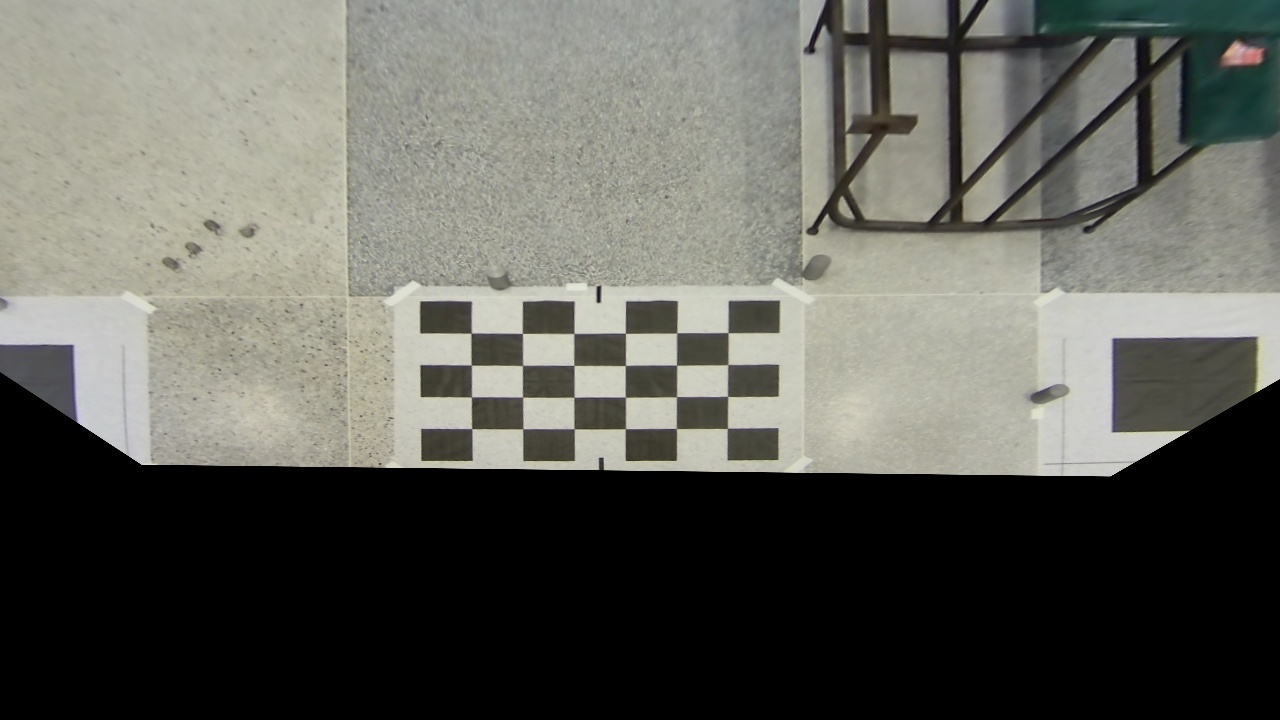
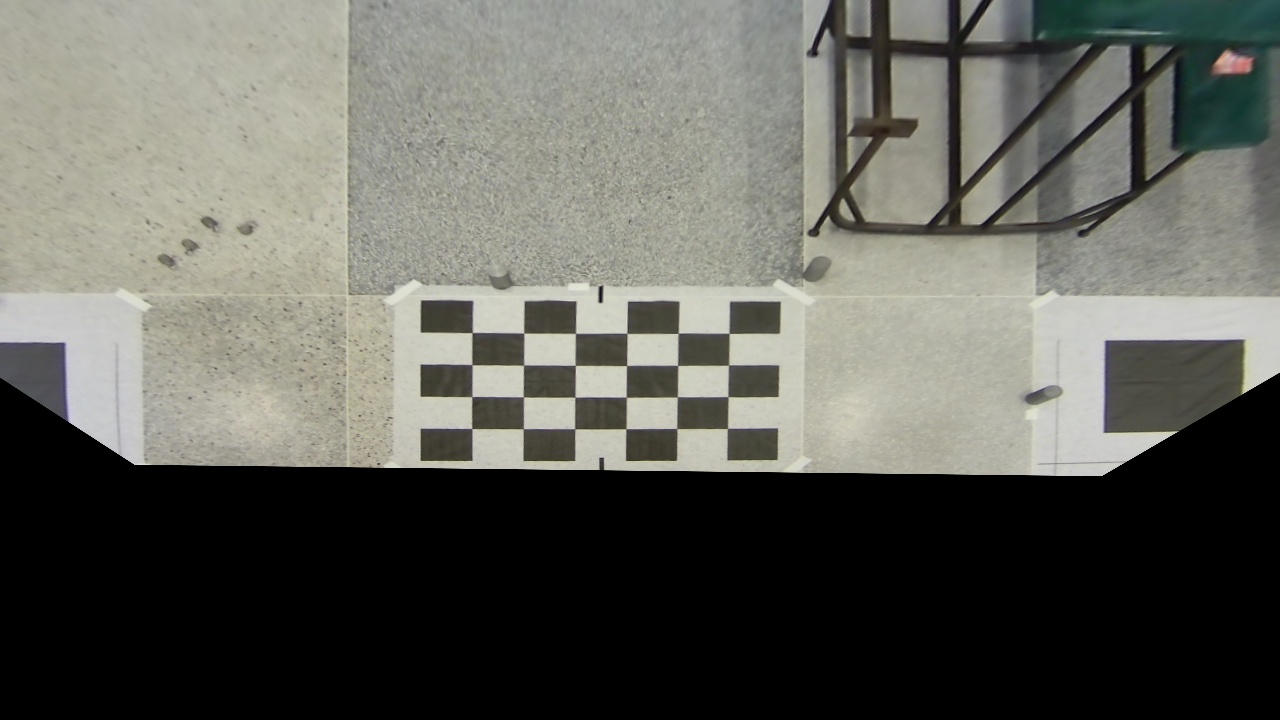
Surround-View-App Ver 0.6.0

diff --git a/Program/Step2b_Projective_Transformation.py b/Program/Step2b_Projective_Transformation.py
@@ -1,0 +1,115 @@
+import cv2
+import numpy as np
+
+Title = "Please select 4 points in the following order: Top-Left, Top-Right, Bottom-Left, Bottom-Right"  
+
+def click_event(event, x, y, flags, param):
+    global clicked_points, img_display
+    if event == cv2.EVENT_LBUTTONDOWN:
+        # บันทึกจุดที่คลิก
+        clicked_points.append((x, y))
+        # วาดวงกลมเพื่อแสดงตำแหน่งที่เลือก
+        cv2.circle(img_display, (x, y), 5, (0, 255, 0), -1)
+        cv2.imshow(Title, img_display)
+
+def load_calibration_parameters(yaml_filename):
+    fs = cv2.FileStorage(yaml_filename, cv2.FILE_STORAGE_READ)
+    camera_matrix = fs.getNode("camera_matrix").mat()
+    dist_coeffs = fs.getNode("dist_coeffs").mat()
+    resolution = fs.getNode("resolution").mat()
+    fs.release()
+    return camera_matrix, dist_coeffs, resolution
+
+def exCalib(img_src, img_dst):
+    # กำหนดขนาดของ chessboard (จำนวน inner corners)
+    # หมายเหตุ: หาก chessboard ของคุณมีจำนวนตารางต่างจากนี้ ให้ปรับ pattern_size ตาม
+    # (columns, rows) ของ inner corners
+    pattern_size = (6, 4)  # สำหรับ 7x5 ตาราง (inner corners 6x4)
+
+    # แปลงภาพเป็น grayscale
+    gray_src = cv2.cvtColor(img_src, cv2.COLOR_BGR2GRAY)
+    gray_dst = cv2.cvtColor(img_dst, cv2.COLOR_BGR2GRAY)
+
+    scale_factor = 3
+    resized_gray_dst = cv2.resize(gray_src, None, fx=scale_factor, fy=scale_factor)
+
+    # ค้นหา corner ของ chessboard ในภาพต้นทาง
+    ret_src, corners_src = cv2.findChessboardCorners(gray_src, pattern_size, None)
+    if not ret_src:
+        print("Error: Chessboard corners not found in src")
+        return None
+
+    # ค้นหา corner ของ chessboard ในภาพปลายทาง
+    ret_dst, corners_dst = cv2.findChessboardCorners(resized_gray_dst, pattern_size, None)
+    if not  ret_dst:
+        print("Error: Chessboard corners not found in dst.")
+        return None
+
+    corners_dst = corners_dst / scale_factor
+
+    # ปรับแต่งตำแหน่ง corner ให้แม่นยำยิ่งขึ้น
+    # ปรับความละเอียดของตำแหน่ง corners ให้แม่นยำขึ้น
+    criteria = (cv2.TermCriteria_EPS + cv2.TermCriteria_MAX_ITER, 30, 0.001)
+    corners_src = cv2.cornerSubPix(gray_src, corners_src, (11, 11), (-1, -1), criteria)
+    corners_dst = cv2.cornerSubPix(gray_dst, corners_dst, (11, 11), (-1, -1), criteria)
+    
+        # วาดมุมที่ตรวจพบบนภาพต้นทาง
+    img_src_display = img_src.copy()
+    cv2.drawChessboardCorners(img_src_display, pattern_size, corners_src, ret_src)
+    
+    # วาดมุมที่ตรวจพบบนภาพปลายทาง
+    img_dst_display = img_dst.copy()
+    cv2.drawChessboardCorners(img_dst_display, pattern_size, corners_dst, ret_dst)
+
+    # แสดงผลภาพ
+    cv2.imshow('Detected Corners - Source', img_src_display)
+    cv2.waitKey(0)
+    cv2.destroyAllWindows()
+    cv2.imshow('Detected Corners - Destination', img_dst_display)
+    cv2.waitKey(0)
+    cv2.destroyAllWindows()
+
+    # คำนวณ homography โดยใช้ RANSAC เพื่อความทนทานต่อ outlier
+    homography, mask = cv2.findHomography(corners_src, corners_dst, cv2.RANSAC)
+
+    return homography
+
+
+if __name__ == "__main__":
+
+    # ตั้งค่าโฟลเดอร์และพารามิเตอร์
+
+    #src
+    test_folder = 'front6'
+    # test_folder = 'Left6'    
+    # test_folder = 'Rear6'
+    
+    #dst
+    chessboard_folder = 'chessboard/warped_chessboard_layout2.png'
+
+    # โหลด intrinsic parameters จากไฟล์ YAML
+    yaml_filename = 'yaml/calibration_data.yaml'
+    camera_matrix, dist_coeffs, resolution = load_calibration_parameters(yaml_filename)
+    print("Loaded Camera Matrix:\n", camera_matrix)
+    print("Loaded Distortion Coefficients:\n", dist_coeffs)
+
+    # หากต้องการ undistort ภาพใหม่ สามารถ uncomment โค้ดด้านล่างได้
+    img_src = cv2.imread(f'input_test_distortion/{test_folder}.jpg')
+    img_src_undistorted = cv2.undistort(img_src, camera_matrix, dist_coeffs)
+    cv2.imshow("Imageg Selected", img_src)
+    cv2.waitKey(0)
+    cv2.destroyAllWindows()
+    img_dst = cv2.imread(chessboard_folder)
+    cv2.imshow("Imageg Selected", img_dst)
+    cv2.waitKey(0)
+    cv2.destroyAllWindows()
+
+    H = exCalib(img_src_undistorted, img_dst)
+    print("Computed Homography:\n", H)
+
+    # (Optional) apply the homography to warp the source image to the destination view
+    height, width = img_dst.shape[:2]
+    warped = cv2.warpPerspective(img_src_undistorted, H, (width, height))
+    cv2.imshow("Warped Image", warped)
+    cv2.waitKey(0)
+    cv2.destroyAllWindows()

diff --git a/Program/program_chessboard_layout.py b/Program/program_chessboard_layout.py
@@ -1,0 +1,68 @@
+import cv2
+import numpy as np
+
+# สร้างภาพพื้นหลังขนาด 700x700 สีขาว
+image_size = 1000
+image = np.ones((image_size, image_size, 3), dtype=np.uint8) * 255
+
+# กำหนดพิกัดที่ต้องการให้กระดานหมากรุกอยู่
+dst_pts = np.array([
+    # [450-200, 310],  # มุมซ้ายบน
+    # [570-200, 310],  # มุมขวาบน
+    # [450-200, 410],  # มุมซ้ายล่าง
+    # [570-200, 410]   # มุมขวาล่าง
+    [250-200, 110],  # มุมซ้ายบน
+    [970-200, 110],  # มุมขวาบน
+    [250-200, 610],  # มุมซ้ายล่าง
+    [970-200, 610]   # มุมขวาล่าง
+], dtype=np.float32)
+
+# dst_pts = np.array([
+#     [450+300, 310],  # มุมซ้ายบน
+#     [570+300, 310],  # มุมขวาบน
+#     [450+300, 410],  # มุมซ้ายล่าง
+#     [570+300, 410]   # มุมขวาล่าง
+# ], dtype=np.float32)
+
+# กำหนดขนาดของกระดานหมากรุก (ก่อนแปลงมุมมอง)
+chessboard_width = 200  # ความกว้าง 200 pixels
+chessboard_height = 100  # ความสูง 100 pixels
+src_pts = np.array([
+    [0, 0], 
+    [chessboard_width, 0], 
+    [0, chessboard_height], 
+    [chessboard_width, chessboard_height]
+], dtype=np.float32)
+
+# คำนวณ Perspective Transform Matrix
+M = cv2.getPerspectiveTransform(src_pts, dst_pts)
+
+# สร้างกระดานหมากรุก 7x5 ช่อง
+rows, cols = 5, 7
+square_width = chessboard_width // cols
+square_height = chessboard_height // rows
+chessboard = np.ones((chessboard_height, chessboard_width, 3), dtype=np.uint8) * 255
+
+for i in range(rows):
+    for j in range(cols):
+        if (i + j) % 2 == 0:  # ช่องสีดำ
+            x_start, y_start = j * square_width, i * square_height
+            x_end, y_end = x_start + square_width, y_start + square_height
+            cv2.rectangle(chessboard, (x_start, y_start), (x_end, y_end), (0, 0, 0), -1)
+
+# แปลงมุมมองของกระดานหมากรุกให้เข้ากับพิกัดที่กำหนด
+warped_chessboard = cv2.warpPerspective(chessboard, M, (image_size, image_size))
+
+# วางภาพกระดานหมากรุกลงบนภาพพื้นหลัง
+mask = cv2.cvtColor(warped_chessboard, cv2.COLOR_BGR2GRAY)
+_, mask = cv2.threshold(mask, 200, 255, cv2.THRESH_BINARY_INV)
+for c in range(3):  # วนลูปช่องสี RGB
+    image[:, :, c] = np.where(mask == 255, warped_chessboard[:, :, c], image[:, :, c])
+
+# แสดงผลลัพธ์
+cv2.imshow("Warped Chessboard", image)
+cv2.waitKey(0)
+cv2.destroyAllWindows()
+
+# บันทึกเป็นไฟล์
+cv2.imwrite("chessboard/warped_chessboard_layout2.png", image)

diff --git a/Program/program_chessboard_7x5.py b/Program/program_chessboard_7x5.py
@@ -1,0 +1,29 @@
+import cv2
+import numpy as np
+
+# ขนาดของกระดานหมากรุก
+rows, cols = 5, 7  # 5 แถว 7 คอลัมน์
+square_size = 200  # 20 cm = 200 pixels (ปรับได้ตาม DPI)
+
+# คำนวณขนาดของภาพ
+width = cols * square_size
+height = rows * square_size
+
+# สร้างภาพสีขาว
+chessboard = np.ones((height, width, 3), dtype=np.uint8) * 255
+
+# วาดตารางหมากรุก
+for i in range(rows):
+    for j in range(cols):
+        if (i + j) % 2 == 0:  # สลับช่องดำ-ขาว
+            x_start, y_start = j * square_size, i * square_size
+            x_end, y_end = x_start + square_size, y_start + square_size
+            cv2.rectangle(chessboard, (x_start, y_start), (x_end, y_end), (0, 0, 0), -1)
+
+# แสดงภาพ
+cv2.imshow("Chessboard", chessboard)
+cv2.waitKey(0)
+cv2.destroyAllWindows()
+
+# บันทึกเป็นไฟล์
+cv2.imwrite("chessboard/chessboard_7x5.png", chessboard)

diff --git a/Program/Step1_cal.py b/Program/Step1_cal.py
@@ -35,10 +35,10 @@ imgpoints = []  # รายการเก็บ 2D points
 calibration_folder = 'Cal_V2'  # โฟลเดอร์ภาพคาลิเบรต
 
 # test_folder = 'Left5'          # โฟลเดอร์ภาพทดสอบ
-# test_folder = 'front6'
+test_folder = 'front6'
 # test_folder = 'left6'
 # test_folder = 'Right6'
-test_folder = 'Rear6'
+# test_folder = 'Rear6'
 # อ่านภาพตัวอย่างเพื่อทดสอบ undistort
 img_test = cv2.imread(f'input_test_distortion/{test_folder}.jpg')
 

diff --git a/Program/Step2a_Projective_Transformation.py b/Program/Step2a_Projective_Transformation.py
@@ -98,3 +98,5 @@ if __name__ == "__main__":
     cv2.imshow('Warped Image', warped_image)
     cv2.waitKey(0)
     cv2.destroyAllWindows()
+
+
